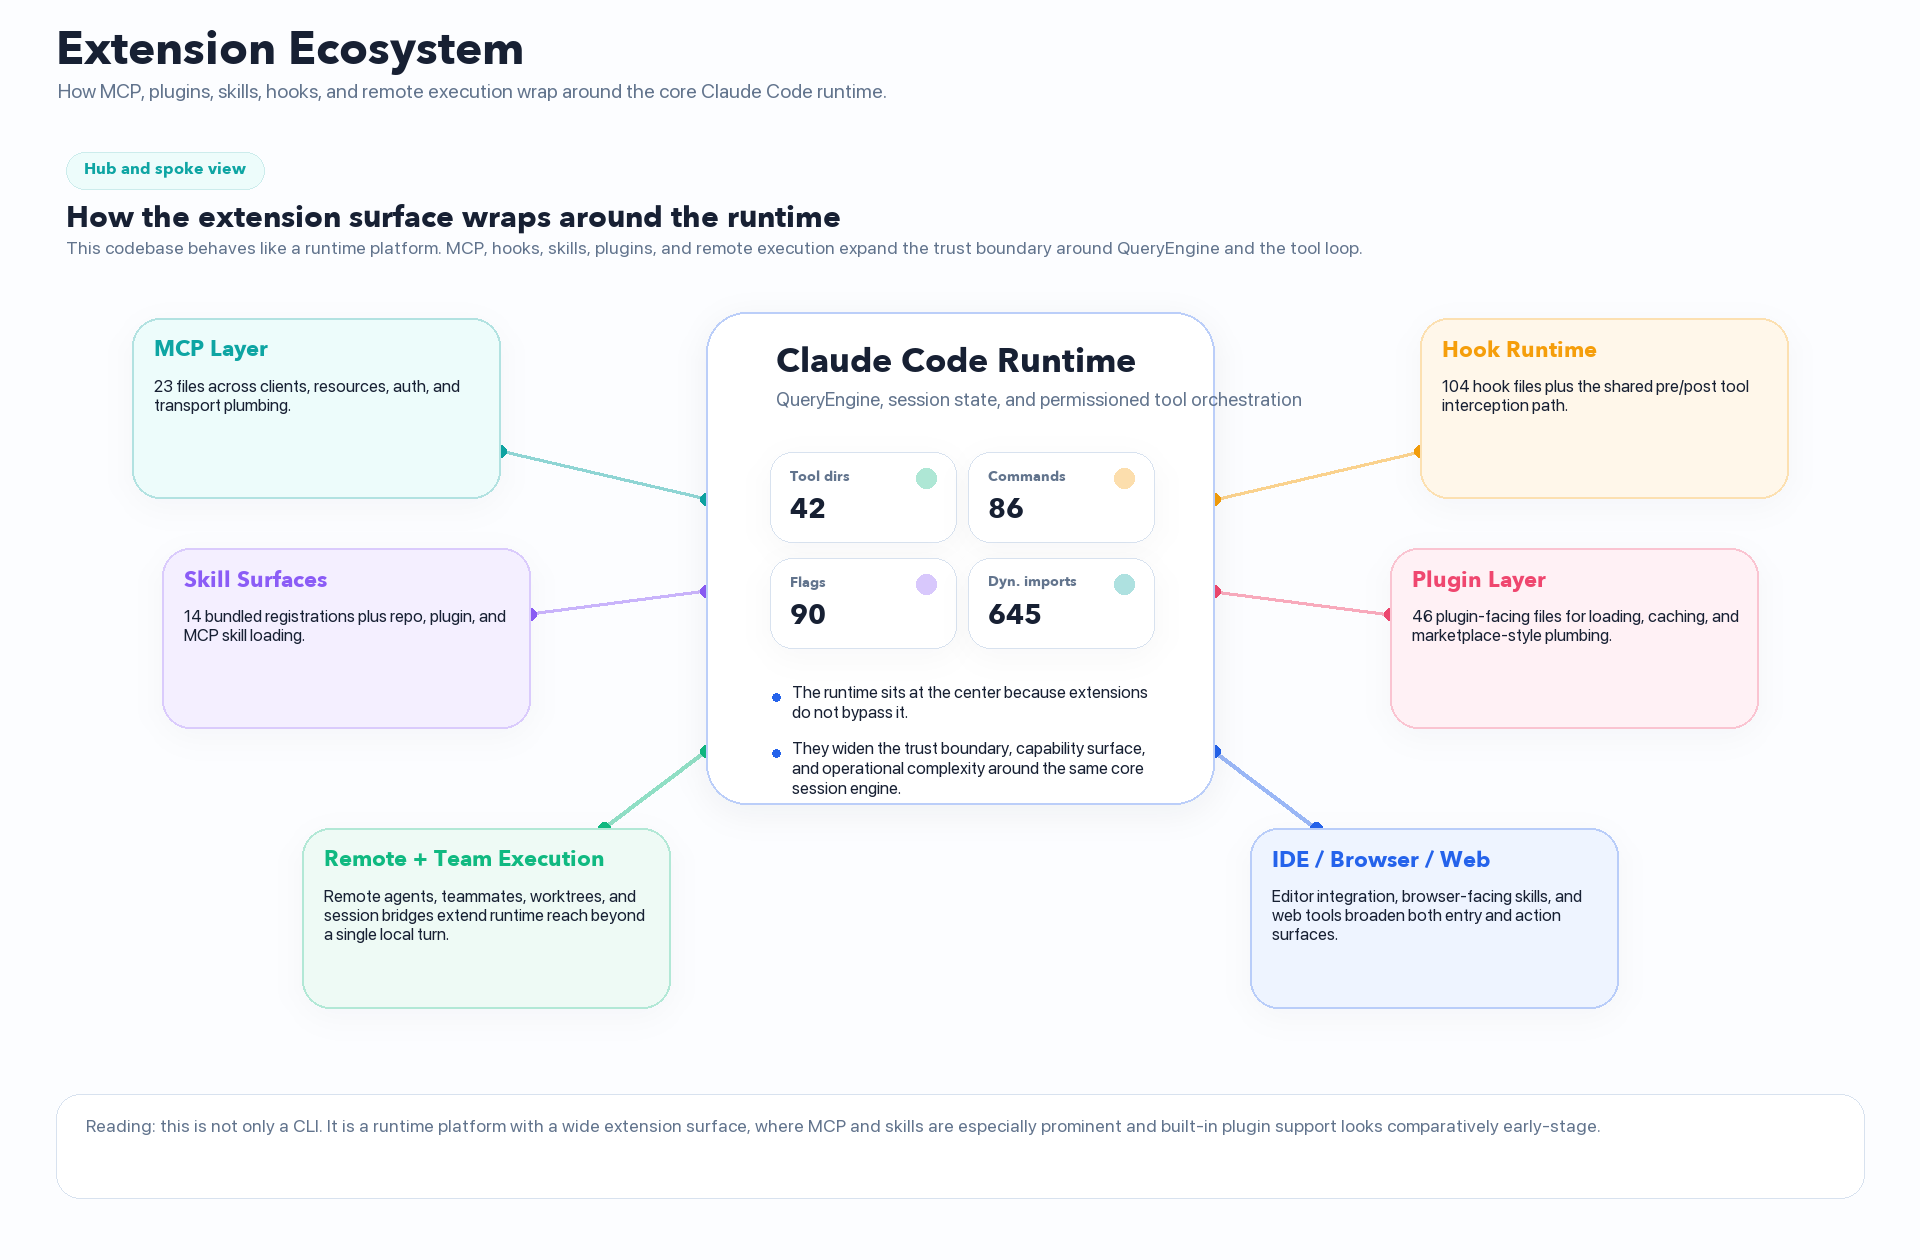
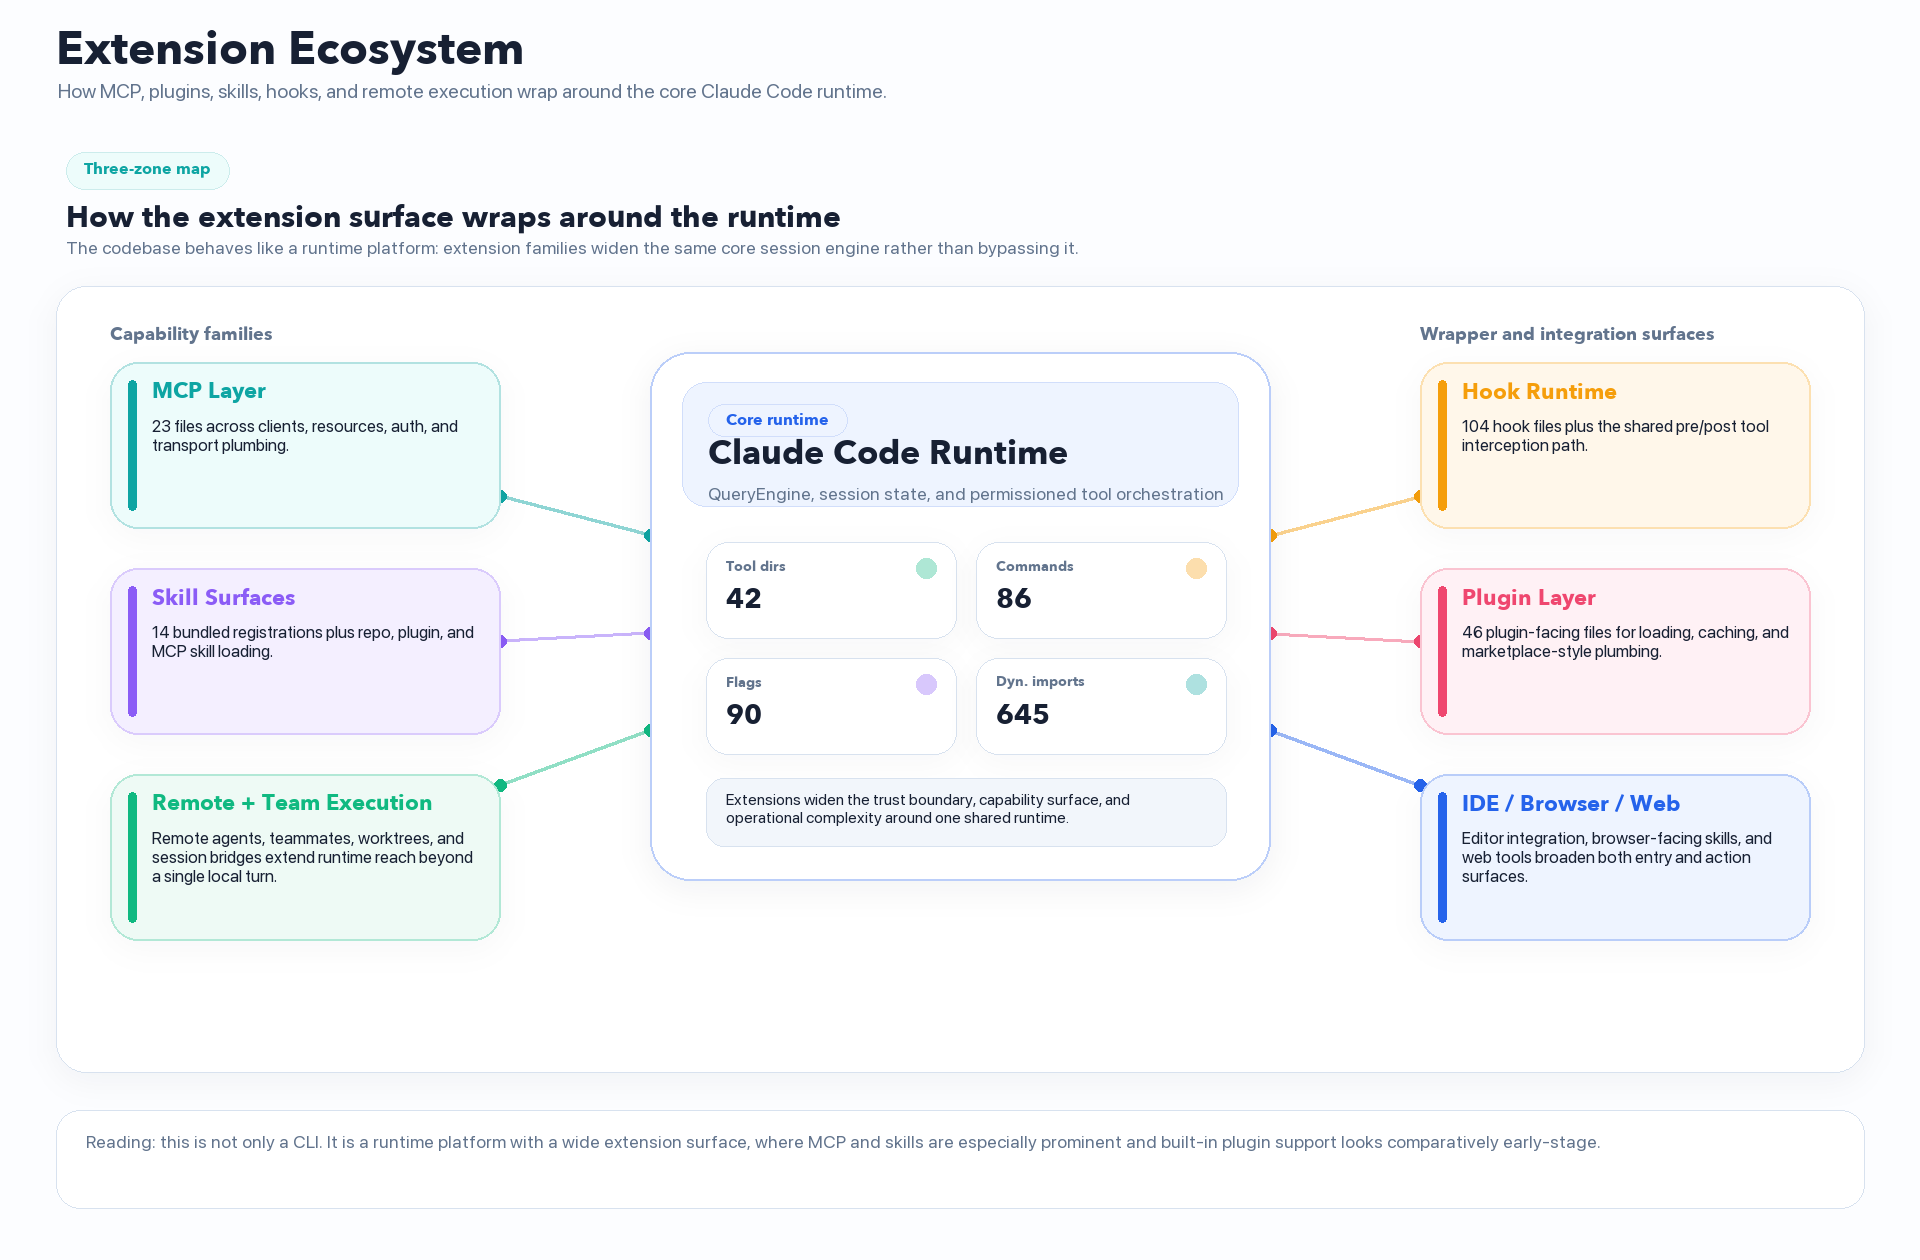
Polish session and extension diagrams

diff --git a/scripts/generate_analysis_suite.py b/scripts/generate_analysis_suite.py
@@ -774,7 +774,7 @@ def render_tool_permission_matrix() -> Path:
 
 
 def render_session_lifecycle() -> Path:
-    size = (1920, 1240)
+    size = (1920, 1260)
     image = Image.new("RGBA", size, base.PALETTE["canvas_alt"])
     draw = ImageDraw.Draw(image)
     draw_title(
@@ -784,74 +784,81 @@ def render_session_lifecycle() -> Path:
     )
 
     steps = [
-        ("Entry", "A new or resumed prompt enters the long-lived runtime."),
-        ("Persist Transcript", "Messages, tool results, and sidecar metadata land in transcript storage."),
-        ("Update Tasks", "Local agents, remote agents, and notifications advance beside the transcript."),
-        ("Check Pressure", "Token budgets and history boundaries decide whether compaction is needed."),
-        ("Compact / Restore", "Older context is summarized, relinked, or resumed from stored memory."),
-        ("Resume Next Turn", "The following prompt restarts from persisted state instead of from zero."),
+        ("Entry", "A new or resumed prompt enters the runtime."),
+        ("Persist Transcript", "Messages and tool results become durable session state."),
+        ("Update Tasks", "Agents, notifications, and task registries advance in parallel."),
+        ("Check Pressure", "Budgets decide whether raw history can keep growing."),
+        ("Compact / Restore", "Older context is summarized, relinked, or resumed."),
+        ("Resume Next Turn", "The next prompt starts from saved state rather than zero."),
     ]
+    draw_kicker(draw, (68, 154), "Stateful runtime model", "blue")
+    base.draw_text(draw, (68, 206), "A session is a persisted state machine, not a stateless chat loop", base.font(30, "headline"), base.PALETTE["ink"])
+
+    outer = (56, 248, 1864, 1184)
+    base.rounded_box(image, outer, fill=base.PALETTE["paper"], outline=base.PALETTE["line"], width=1, radius=30, shadow=True, shadow_alpha=12)
+    base.draw_text(draw, (84, 274), "Turn progression", base.font(22, "headline"), base.PALETTE["ink"])
+    base.draw_text(draw, (84, 304), "The visible turn moves left to right. The same session also keeps durable substrate state underneath it.", base.font(17), base.PALETTE["muted"])
+
     step_rects: list[tuple[int, int, int, int]] = []
-    y = 226
-    step_w = 262
-    gap = 28
-    start_x = 70
-    timeline_y = 410
-    draw_kicker(draw, (70, 154), "Long-lived runtime model", "blue")
-    base.draw_text(draw, (70, 206), "A session is a persisted state machine, not a stateless chat loop", base.font(30, "headline"), base.PALETTE["ink"])
-    draw.line((90, timeline_y, 1830, timeline_y), fill=base.PALETTE["line_dark"], width=8)
+    row_y = 350
+    step_h = 158
+    gap = 18
+    total_w = outer[2] - outer[0] - 60
+    step_w = (total_w - gap * 5) // 6
+    start_x = outer[0] + 30
+    timeline_y = row_y + step_h + 20
+    draw.line((start_x, timeline_y, outer[2] - 30, timeline_y), fill=base.PALETTE["line_dark"], width=6)
 
     for idx, (title, subtitle) in enumerate(steps):
         x = start_x + idx * (step_w + gap)
-        rect = (x, y, x + step_w, y + 150)
+        rect = (x, row_y, x + step_w, row_y + step_h)
         step_rects.append(rect)
         accent_key = ACCENT_KEYS[idx % len(ACCENT_KEYS)]
         accent = base.PALETTE[accent_key]
-        base.rounded_box(image, rect, fill=accent_fill(accent_key), outline=base.with_alpha(accent, 72), width=2, radius=28, shadow=True, shadow_alpha=10)
-        badge = (x + 18, y + 18, x + 60, y + 60)
+        base.rounded_box(image, rect, fill=accent_fill(accent_key), outline=base.with_alpha(accent, 72), width=2, radius=26, shadow=True, shadow_alpha=8)
+        badge = (x + 16, row_y + 16, x + 54, row_y + 54)
         base.rounded_box(image, badge, fill=accent, radius=18)
-        base.draw_text(draw, (x + 32, y + 24), str(idx + 1), base.font(20, "headline"), base.rgba("#ffffff"))
-        title_font, title_lines = base.fit_wrapped_font(draw, title, "headline", 25, 18, step_w - 36, 54, 3, max_lines=2)
-        base.draw_text_lines(draw, (x + 18, y + 76), title_lines, title_font, accent, 3)
+        base.draw_text(draw, (x + 28, row_y + 21), str(idx + 1), base.font(18, "headline"), base.rgba("#ffffff"))
+        title_font, title_lines = base.fit_wrapped_font(draw, title, "headline", 24, 18, step_w - 32, 50, 3, max_lines=2)
+        base.draw_text_lines(draw, (x + 16, row_y + 66), title_lines, title_font, accent, 3)
         title_h = base.text_block_height(draw, title_lines, title_font, 3)
-        font_obj, lines = base.fit_wrapped_font(draw, subtitle, "body", 16, 14, step_w - 36, 54, 4, max_lines=3)
-        base.draw_text_lines(draw, (x + 18, y + 88 + title_h), lines, font_obj, base.PALETTE["muted"], 4)
+        body_font, body_lines = base.fit_wrapped_font(draw, subtitle, "body", 15, 13, step_w - 32, 52, 4, max_lines=3)
+        base.draw_text_lines(draw, (x + 16, row_y + 78 + title_h), body_lines, body_font, base.PALETTE["muted"], 4)
         if idx < len(steps) - 1:
             x1 = rect[2]
-            x2 = rect[2] + gap
-            draw.line((x1 + 6, timeline_y, x2 - 8, timeline_y), fill=base.PALETTE["line_dark"], width=6)
-            draw.polygon([(x2 - 8, timeline_y), (x2 - 20, timeline_y - 9), (x2 - 20, timeline_y + 9)], fill=base.PALETTE["line_dark"])
+            x2 = x1 + gap
+            draw.line((x1 + 6, timeline_y, x2 - 8, timeline_y), fill=base.PALETTE["line_dark"], width=5)
+            draw.polygon([(x2 - 8, timeline_y), (x2 - 18, timeline_y - 8), (x2 - 18, timeline_y + 8)], fill=base.PALETTE["line_dark"])
 
+    base.draw_text(draw, (84, 582), "Persistent state touched by the lifecycle", base.font(22, "headline"), base.PALETTE["ink"])
+    base.draw_text(draw, (84, 612), "These stores explain why long sessions, background work, and resume behave like runtime features instead of simple chat history.", base.font(17), base.PALETTE["muted"])
+
+    store_band = (84, 654, 1836, 844)
+    base.rounded_box(image, store_band, fill=base.PALETTE["slate_fill"], outline=base.PALETTE["line"], width=1, radius=26)
+    store_gap = 18
+    store_w = (store_band[2] - store_band[0] - 40 - store_gap * 2) // 3
     store_rects = [
-        ((90, 566, 566, 794), "Transcript Store", "JSONL messages, sidecar metadata, resume titles, and compact boundaries live here.", "purple"),
-        ((724, 566, 1198, 794), "Session Memory + Claude.md", "Session memory, recovered context, and session-start rebuild logic preserve continuity beyond the visible turn.", "teal"),
-        ((1354, 566, 1830, 794), "Task / Agent Registries", "Local agents, remote agents, notifications, and task state evolve beside the transcript instead of outside it.", "rose"),
+        ((store_band[0] + 20, store_band[1] + 20, store_band[0] + 20 + store_w, store_band[3] - 20), "Transcript Store", "JSONL messages, sidecar metadata, resume titles, and compact boundaries live here.", "purple"),
+        ((store_band[0] + 20 + store_w + store_gap, store_band[1] + 20, store_band[0] + 20 + store_w * 2 + store_gap, store_band[3] - 20), "Session Memory + Claude.md", "Recovered context, session memory, and rebuild logic preserve continuity across long-running work.", "teal"),
+        ((store_band[0] + 20 + (store_w + store_gap) * 2, store_band[1] + 20, store_band[2] - 20, store_band[3] - 20), "Task / Agent Registries", "Local agents, remote agents, notifications, and task state evolve beside the transcript rather than outside it.", "rose"),
     ]
     for rect, title, subtitle, accent_key in store_rects:
         accent = base.PALETTE[accent_key]
-        base.rounded_box(image, rect, fill=base.PALETTE["paper"], outline=base.with_alpha(accent, 72), width=2, radius=26)
-        base.draw_text(draw, (rect[0] + 20, rect[1] + 18), title, base.font(22, "headline"), accent)
-        font_obj, lines = base.fit_wrapped_font(draw, subtitle, "body", 17, 14, rect[2] - rect[0] - 40, 92, 5, max_lines=5)
-        base.draw_text_lines(draw, (rect[0] + 20, rect[1] + 62), lines, font_obj, base.PALETTE["ink"], 5)
+        base.rounded_box(image, rect, fill=base.PALETTE["paper"], outline=base.with_alpha(accent, 70), width=2, radius=22)
+        draw.rounded_rectangle((rect[0] + 16, rect[1] + 16, rect[0] + 24, rect[3] - 16), radius=4, fill=accent)
+        base.draw_text(draw, (rect[0] + 38, rect[1] + 18), title, base.font(22, "headline"), accent)
+        body_font, body_lines = base.fit_wrapped_font(draw, subtitle, "body", 16, 14, rect[2] - rect[0] - 54, 74, 4, max_lines=4)
+        base.draw_text_lines(draw, (rect[0] + 38, rect[1] + 58), body_lines, body_font, base.PALETTE["ink"], 4)
 
-    connectors = [
-        (step_rects[1][0] + 120, step_rects[1][3], 328, 566),
-        (step_rects[4][0] + 126, step_rects[4][3], 960, 566),
-        (step_rects[2][0] + 122, step_rects[2][3], 1592, 566),
-    ]
-    for x1, y1, x2, y2 in connectors:
-        draw.line((x1, y1, x2, y2), fill=base.PALETTE["line_dark"], width=4)
-        draw.polygon([(x2, y2), (x2 - 10, y2 - 8), (x2 + 10, y2 - 8)], fill=base.PALETTE["line_dark"])
-
-    loop_rect = (422, 864, 1498, 1138)
-    base.rounded_box(image, loop_rect, fill=base.PALETTE["paper"], outline=base.with_alpha(base.PALETTE["blue"], 80), width=2, radius=28, shadow=True, shadow_alpha=10)
-    base.draw_text(draw, (452, 892), "Why This Matters", base.font(26, "headline"), base.PALETTE["blue"])
+    note_rect = (264, 904, 1656, 1122)
+    base.rounded_box(image, note_rect, fill=base.PALETTE["blue_fill"], outline=base.with_alpha(base.PALETTE["blue"], 80), width=2, radius=28, shadow=True, shadow_alpha=10)
+    base.draw_text(draw, (300, 934), "Why This Matters", base.font(28, "headline"), base.PALETTE["blue"])
     bullets = (
-        "The transcript is a runtime substrate, not just a log. That is why resume, background work, and inspection remain possible.",
-        "Compaction is part of the normal lifecycle. It is what keeps a long session alive when raw history no longer fits.",
+        "The transcript is runtime substrate, not just a log. That is why resume, background work, and inspection remain possible.",
+        "Compaction is part of the normal lifecycle. It keeps a long session alive when raw history no longer fits.",
         "Task and agent registries share the same continuity boundary, which is why post-turn work can keep progressing after the visible response ends.",
     )
-    base.draw_bullet_list(draw, 452, 940, 1000, bullets, base.PALETTE["blue"], "body", 18, 15)
+    base.draw_bullet_list(draw, 300, 986, 1280, bullets, base.PALETTE["blue"], "body", 18, 15)
     out_path = OUT_DIR / "session-lifecycle.png"
     image.save(out_path)
     return out_path
@@ -867,26 +874,38 @@ def render_extension_ecosystem(metrics: CodebaseMetrics) -> Path:
         "How MCP, plugins, skills, hooks, and remote execution wrap around the core Claude Code runtime.",
     )
 
-    draw_kicker(draw, (66, 152), "Hub and spoke view", "teal")
+    draw_kicker(draw, (66, 152), "Three-zone map", "teal")
     base.draw_text(draw, (66, 204), "How the extension surface wraps around the runtime", base.font(30, "headline"), base.PALETTE["ink"])
-    base.draw_text(draw, (66, 242), "This codebase behaves like a runtime platform. MCP, hooks, skills, plugins, and remote execution expand the trust boundary around QueryEngine and the tool loop.", base.font(18), base.PALETTE["muted"])
+    base.draw_text(draw, (66, 242), "The codebase behaves like a runtime platform: extension families widen the same core session engine rather than bypassing it.", base.font(18), base.PALETTE["muted"])
 
-    center = (706, 312, 1214, 804)
-    nodes = [
-        ((132, 318, 500, 498), "MCP Layer", f"{metrics.mcp_files} files across clients, resources, auth, and transport plumbing.", "teal"),
-        ((1420, 318, 1788, 498), "Hook Runtime", f"{metrics.hook_files} hook files plus the shared pre/post tool interception path.", "orange"),
-        ((162, 548, 530, 728), "Skill Surfaces", f"{metrics.bundled_skill_registrations} bundled registrations plus repo, plugin, and MCP skill loading.", "purple"),
-        ((1390, 548, 1758, 728), "Plugin Layer", f"{metrics.plugin_files} plugin-facing files for loading, caching, and marketplace-style plumbing.", "rose"),
-        ((302, 828, 670, 1008), "Remote + Team Execution", "Remote agents, teammates, worktrees, and session bridges extend runtime reach beyond a single local turn.", "green"),
-        ((1250, 828, 1618, 1008), "IDE / Browser / Web", "Editor integration, browser-facing skills, and web tools broaden both entry and action surfaces.", "blue"),
+    outer = (56, 286, 1864, 1072)
+    base.rounded_box(image, outer, fill=base.PALETTE["paper"], outline=base.PALETTE["line"], width=1, radius=30, shadow=True, shadow_alpha=12)
+
+    center = (650, 352, 1270, 880)
+    left_nodes = [
+        ((110, 362, 500, 528), "MCP Layer", f"{metrics.mcp_files} files across clients, resources, auth, and transport plumbing.", "teal"),
+        ((110, 568, 500, 734), "Skill Surfaces", f"{metrics.bundled_skill_registrations} bundled registrations plus repo, plugin, and MCP skill loading.", "purple"),
+        ((110, 774, 500, 940), "Remote + Team Execution", "Remote agents, teammates, worktrees, and session bridges extend runtime reach beyond a single local turn.", "green"),
+    ]
+    right_nodes = [
+        ((1420, 362, 1810, 528), "Hook Runtime", f"{metrics.hook_files} hook files plus the shared pre/post tool interception path.", "orange"),
+        ((1420, 568, 1810, 734), "Plugin Layer", f"{metrics.plugin_files} plugin-facing files for loading, caching, and marketplace-style plumbing.", "rose"),
+        ((1420, 774, 1810, 940), "IDE / Browser / Web", "Editor integration, browser-facing skills, and web tools broaden both entry and action surfaces.", "blue"),
     ]
 
-    for rect, _, _, accent_key in nodes:
+    base.draw_text(draw, (110, 326), "Capability families", base.font(18, "headline"), base.PALETTE["muted"])
+    base.draw_text(draw, (1420, 326), "Wrapper and integration surfaces", base.font(18, "headline"), base.PALETTE["muted"])
+
+    for rect, _, _, accent_key in left_nodes + right_nodes:
         draw_link(draw, center, rect, base.PALETTE[accent_key], width=4)
 
     base.rounded_box(image, center, fill=base.PALETTE["paper"], outline=base.with_alpha(base.PALETTE["blue"], 80), width=2, radius=40, shadow=True, shadow_alpha=14)
-    base.draw_text(draw, (776, 346), "Claude Code Runtime", base.font(34, "headline"), base.PALETTE["ink"])
-    base.draw_text(draw, (776, 392), "QueryEngine, session state, and permissioned tool orchestration", base.font(19), base.PALETTE["muted"])
+    header_rect = (682, 382, 1238, 506)
+    base.rounded_box(image, header_rect, fill=base.PALETTE["blue_fill"], outline=base.with_alpha(base.PALETTE["blue"], 54), width=1, radius=24)
+    draw_kicker(draw, (708, 404), "Core runtime", "blue")
+    base.draw_text(draw, (708, 438), "Claude Code Runtime", base.font(34, "headline"), base.PALETTE["ink"])
+    base.draw_text(draw, (708, 488), "QueryEngine, session state, and permissioned tool orchestration", base.font(18), base.PALETTE["muted"])
+
     chip_specs = [
         ("Tool dirs", str(metrics.tool_directories), "green"),
         ("Commands", str(metrics.command_surfaces), "orange"),
@@ -894,31 +913,33 @@ def render_extension_ecosystem(metrics: CodebaseMetrics) -> Path:
         ("Dyn. imports", str(metrics.dynamic_imports), "teal"),
     ]
     chip_rects = [
-        (770, 452, 956, 542),
-        (968, 452, 1154, 542),
-        (770, 558, 956, 648),
-        (968, 558, 1154, 648),
+        (706, 542, 956, 638),
+        (976, 542, 1226, 638),
+        (706, 658, 956, 754),
+        (976, 658, 1226, 754),
     ]
     for rect, (label, value, accent_key) in zip(chip_rects, chip_specs):
         draw_stat_chip(image, rect, label, value, accent_key)
-    core_lines = (
-        "The runtime sits at the center because extensions do not bypass it.",
-        "They widen the trust boundary, capability surface, and operational complexity around the same core session engine.",
-    )
-    base.draw_bullet_list(draw, 772, 686, 390, core_lines, base.PALETTE["blue"], "body", 17, 15)
 
-    for rect, title, subtitle, accent_key in nodes:
+    insight_rect = (706, 778, 1226, 846)
+    base.rounded_box(image, insight_rect, fill=base.PALETTE["slate_fill"], outline=base.PALETTE["line"], width=1, radius=18)
+    insight = "Extensions widen the trust boundary, capability surface, and operational complexity around one shared runtime."
+    insight_font, insight_lines = base.fit_wrapped_font(draw, insight, "body", 16, 14, 480, 42, 4, max_lines=2)
+    base.draw_text_lines(draw, (726, 794), insight_lines, insight_font, base.PALETTE["ink"], 4)
+
+    for rect, title, subtitle, accent_key in left_nodes + right_nodes:
         accent = base.PALETTE[accent_key]
         base.rounded_box(image, rect, fill=accent_fill(accent_key), outline=base.with_alpha(accent, 82), width=2, radius=28, shadow=True, shadow_alpha=8)
-        base.draw_text(draw, (rect[0] + 22, rect[1] + 22), title, base.font(22, "headline"), accent)
-        font_obj, lines = base.fit_wrapped_font(draw, subtitle, "body", 17, 14, rect[2] - rect[0] - 40, 88, 4, max_lines=4)
-        base.draw_text_lines(draw, (rect[0] + 22, rect[1] + 62), lines, font_obj, base.PALETTE["ink"], 4)
+        draw.rounded_rectangle((rect[0] + 18, rect[1] + 18, rect[0] + 26, rect[3] - 18), radius=4, fill=accent)
+        base.draw_text(draw, (rect[0] + 42, rect[1] + 20), title, base.font(22, "headline"), accent)
+        font_obj, lines = base.fit_wrapped_font(draw, subtitle, "body", 17, 14, rect[2] - rect[0] - 60, 82, 4, max_lines=4)
+        base.draw_text_lines(draw, (rect[0] + 42, rect[1] + 58), lines, font_obj, base.PALETTE["ink"], 4)
 
-    footer_rect = (56, 1094, 1864, 1198)
+    footer_rect = (56, 1110, 1864, 1208)
     base.rounded_box(image, footer_rect, fill=base.PALETTE["paper"], outline=base.PALETTE["line"], width=1, radius=24)
     footer = "Reading: this is not only a CLI. It is a runtime platform with a wide extension surface, where MCP and skills are especially prominent and built-in plugin support looks comparatively early-stage."
     footer_font, footer_lines = base.fit_wrapped_font(draw, footer, "body", 18, 16, 1760, 60, 4, max_lines=3)
-    base.draw_text_lines(draw, (86, 1120), footer_lines, footer_font, base.PALETTE["muted"], 4)
+    base.draw_text_lines(draw, (86, 1136), footer_lines, footer_font, base.PALETTE["muted"], 4)
     out_path = OUT_DIR / "extension-ecosystem.png"
     image.save(out_path)
     return out_path
